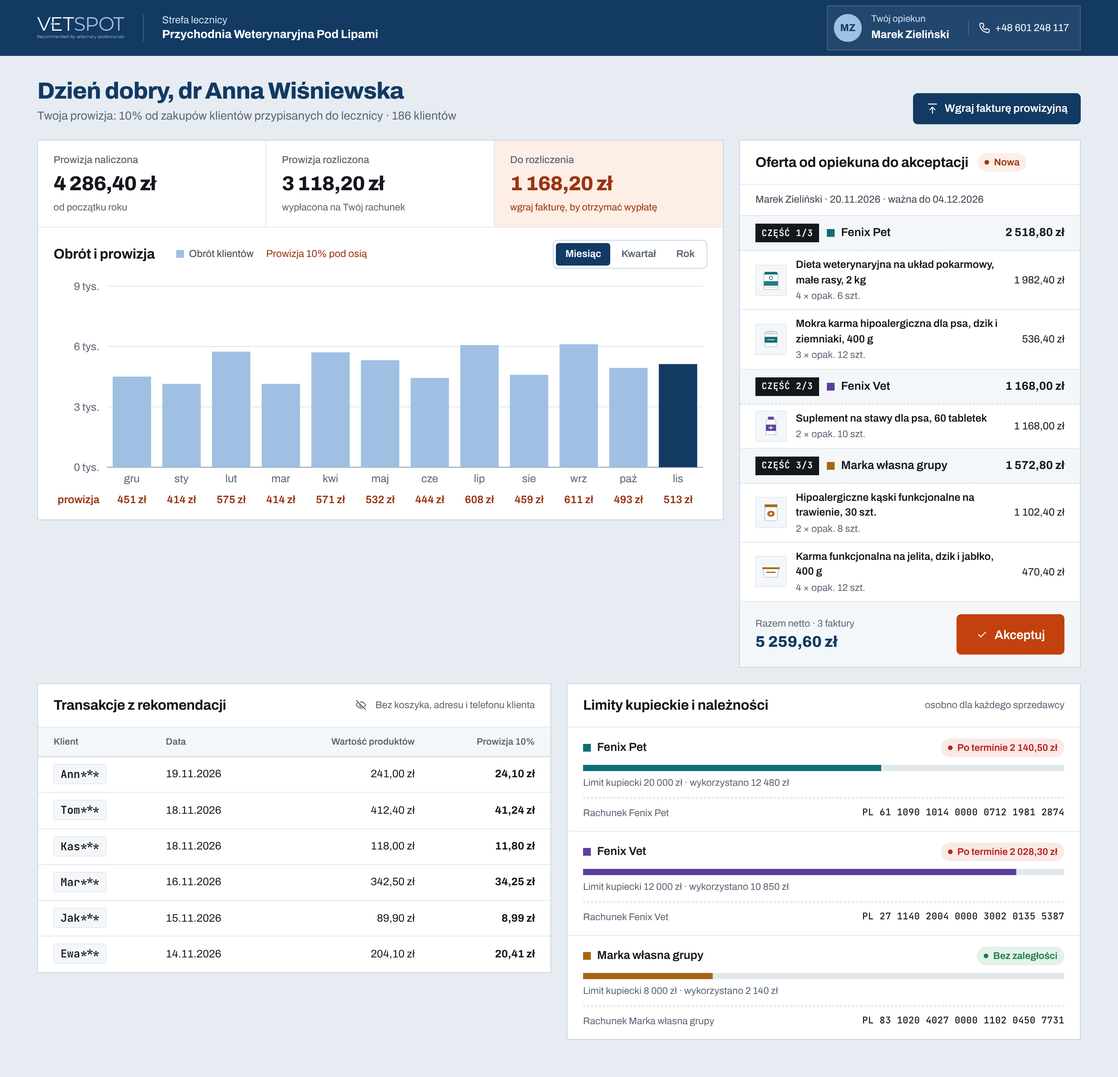
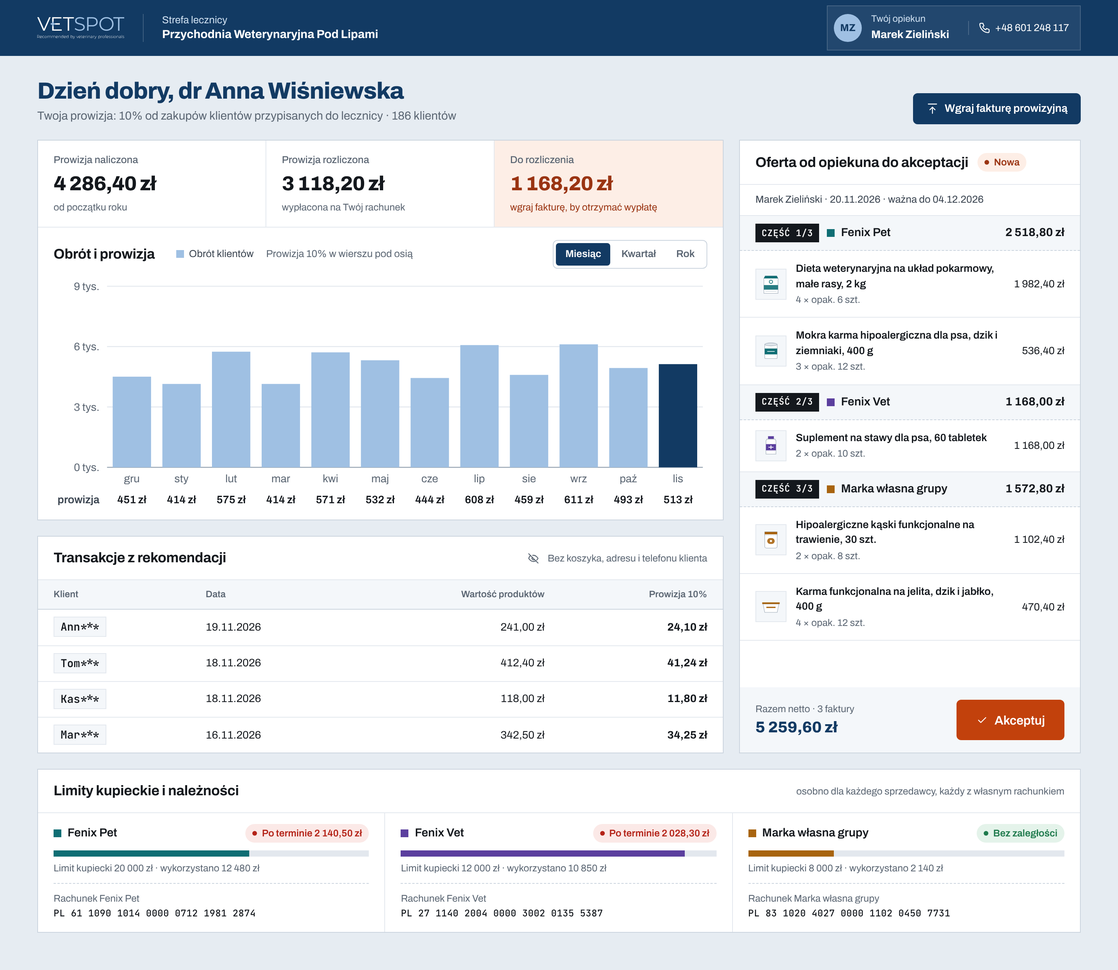
Strefa lecznicy: fix layout gap and signal colour on commission row
Claude-Session: https://claude.ai/code/session_015A23omK6EZnYviXLZmHn6a

diff --git a/makiety/07-strefa-lecznicy.html b/makiety/07-strefa-lecznicy.html
@@ -16,20 +16,23 @@
     .opk .ph{font-size:13px;color:#fff;margin-left:12px;display:flex;gap:6px;align-items:center;border-left:1px solid #ffffff30;padding-left:12px}
     .wrap{padding:28px 48px 48px}
     .top{display:flex;align-items:flex-end;margin-bottom:20px}
-    .grid{display:grid;grid-template-columns:1fr 440px;gap:20px;align-items:start;margin-bottom:20px}
+    .grid{display:grid;grid-template-columns:1fr 440px;gap:20px;align-items:stretch;margin-bottom:20px}
+    .grid > .col:last-child > .panel{flex:1;display:flex;flex-direction:column}.grid .oa{margin-top:auto}
+    .acc3{display:grid;grid-template-columns:repeat(3,1fr)}.acc3 .acc{border-bottom:0;border-right:1px solid var(--line-2)}.acc3 .acc:last-child{border-right:0}
+    .iban{flex-direction:column;gap:2px}
     .figs{display:grid;grid-template-columns:repeat(3,1fr);border-bottom:1px solid var(--line-2)}
     .figs .fig{padding:16px 20px;border-right:1px solid var(--line-2)}.figs .fig:last-child{border-right:0}
     .figs .fig.hl{background:var(--sig-wash)}
     .legend{display:flex;gap:16px;font-size:13px;color:var(--ink-2)}
     .legend span{display:flex;gap:6px;align-items:center}
     .og{display:flex;gap:10px;align-items:center;padding:10px 20px;background:var(--wash);border-bottom:1.5px dashed var(--line)}.og b{margin-left:auto}
-    .oi{display:grid;grid-template-columns:40px 1fr auto;gap:12px;align-items:center;padding:8px 20px;border-bottom:1px solid var(--line-2);font-size:13.5px}
+    .oi{display:grid;grid-template-columns:40px 1fr auto;gap:12px;align-items:center;padding:13px 20px;border-bottom:1px solid var(--line-2);font-size:13.5px}
     .oi .thumb.sm{width:40px;height:40px}.oi .thumb.sm svg{width:30px;height:30px}
     .oi b{font-weight:600}.oi .sub{display:flex;gap:6px;align-items:center;font-size:12.5px;color:var(--mute);margin-top:2px}
     .thumb.sm{width:52px;height:52px}.thumb.sm svg{width:40px;height:40px}
     .oa{display:flex;align-items:center;justify-content:space-between;padding:16px 20px;background:var(--wash)}
     .oa b{font-size:20px;font-weight:800;color:var(--navy)}
-    .bottom{display:grid;grid-template-columns:1fr 1fr;gap:20px;align-items:start}
+    .col{display:flex;flex-direction:column;gap:20px;min-width:0}
     .who{font-family:var(--mono);font-weight:600;background:var(--wash);padding:3px 8px;border:1px solid var(--line-2)}
     .priv{display:flex;gap:8px;align-items:center;font-size:12.5px;color:var(--mute)}
     .acc{padding:14px 20px;border-bottom:1px solid var(--line-2)}.acc:last-child{border-bottom:0}
@@ -48,27 +51,30 @@
   <div class="top"><div><h1>Dzień dobry, dr Anna Wiśniewska</h1><p class="mute" style="margin-top:4px">Twoja prowizja: 10% od zakupów klientów przypisanych do lecznicy · 186 klientów</p></div>
     <a class="btn navy" style="margin-left:auto" href="#"><svg class="ic s" viewBox="0 0 24 24" aria-hidden="true"><path d="M12 21V9"/><path d="m7 14 5-5 5 5"/><path d="M4 3h16"/></svg>Wgraj fakturę prowizyjną</a></div>
   <div class="grid">
+    <div class="col">
     <section class="panel">
       <div class="figs">
         <div class="fig"><small>Prowizja naliczona</small><b>4 286,40 zł</b><span class="mute" style="font-size:12.5px">od początku roku</span></div>
         <div class="fig"><small>Prowizja rozliczona</small><b>3 118,20 zł</b><span class="mute" style="font-size:12.5px">wypłacona na Twój rachunek</span></div>
         <div class="fig hl"><small>Do rozliczenia</small><b style="color:var(--sig-ink)">1 168,20 zł</b><span style="font-size:12.5px;color:var(--sig-ink)">wgraj fakturę, by otrzymać wypłatę</span></div>
       </div>
-      <div class="panel-h" style="border-bottom:0;padding-bottom:4px"><h2>Obrót i prowizja</h2><div class="legend" style="margin-left:16px"><span><i class="sw" style="background:#9fc0e3"></i>Obrót klientów</span><span style="color:#9a3412">Prowizja 10% pod osią</span></div>
+      <div class="panel-h" style="border-bottom:0;padding-bottom:4px"><h2>Obrót i prowizja</h2><div class="legend" style="margin-left:16px"><span><i class="sw" style="background:#9fc0e3"></i>Obrót klientów</span><span class="mute">Prowizja 10% w wierszu pod osią</span></div>
         <div class="r"><div class="seg"><span class="on">Miesiąc</span><span>Kwartał</span><span>Rok</span></div></div></div>
-      <div style="padding:4px 16px 12px"><svg viewBox="0 0 700 250" width="100%" style="display:block;font:11.5px Archivo;fill:#5b6673"><line x1="60" x2="692" y1="204.0" y2="204.0" stroke="#9aa7b4"/><text x="52" y="208.0" text-anchor="end">0 tys.</text><line x1="60" x2="692" y1="140.0" y2="140.0" stroke="#e3e8ee"/><text x="52" y="144.0" text-anchor="end">3 tys.</text><line x1="60" x2="692" y1="76.0" y2="76.0" stroke="#e3e8ee"/><text x="52" y="80.0" text-anchor="end">6 tys.</text><line x1="60" x2="692" y1="12.0" y2="12.0" stroke="#e3e8ee"/><text x="52" y="16.0" text-anchor="end">9 tys.</text><text x="52" y="242" text-anchor="end" fill="#9a3412" font-weight="600">prowizja</text><rect x="66.0" y="107.9" width="40.7" height="96.1" fill="#9fc0e3"/><text x="86.3" y="220" text-anchor="middle">gru</text><text x="86.3" y="242" text-anchor="middle" fill="#9a3412" font-weight="600">451 zł</text><rect x="118.7" y="115.6" width="40.7" height="88.4" fill="#9fc0e3"/><text x="139.0" y="220" text-anchor="middle">sty</text><text x="139.0" y="242" text-anchor="middle" fill="#9a3412" font-weight="600">414 zł</text><rect x="171.3" y="81.4" width="40.7" height="122.6" fill="#9fc0e3"/><text x="191.7" y="220" text-anchor="middle">lut</text><text x="191.7" y="242" text-anchor="middle" fill="#9a3412" font-weight="600">575 zł</text><rect x="224.0" y="115.6" width="40.7" height="88.4" fill="#9fc0e3"/><text x="244.3" y="220" text-anchor="middle">mar</text><text x="244.3" y="242" text-anchor="middle" fill="#9a3412" font-weight="600">414 zł</text><rect x="276.7" y="82.1" width="40.7" height="121.9" fill="#9fc0e3"/><text x="297.0" y="220" text-anchor="middle">kwi</text><text x="297.0" y="242" text-anchor="middle" fill="#9a3412" font-weight="600">571 zł</text><rect x="329.3" y="90.5" width="40.7" height="113.5" fill="#9fc0e3"/><text x="349.7" y="220" text-anchor="middle">maj</text><text x="349.7" y="242" text-anchor="middle" fill="#9a3412" font-weight="600">532 zł</text><rect x="382.0" y="109.3" width="40.7" height="94.7" fill="#9fc0e3"/><text x="402.3" y="220" text-anchor="middle">cze</text><text x="402.3" y="242" text-anchor="middle" fill="#9a3412" font-weight="600">444 zł</text><rect x="434.7" y="74.4" width="40.7" height="129.6" fill="#9fc0e3"/><text x="455.0" y="220" text-anchor="middle">lip</text><text x="455.0" y="242" text-anchor="middle" fill="#9a3412" font-weight="600">608 zł</text><rect x="487.3" y="106.0" width="40.7" height="98.0" fill="#9fc0e3"/><text x="507.7" y="220" text-anchor="middle">sie</text><text x="507.7" y="242" text-anchor="middle" fill="#9a3412" font-weight="600">459 zł</text><rect x="540.0" y="73.6" width="40.7" height="130.4" fill="#9fc0e3"/><text x="560.3" y="220" text-anchor="middle">wrz</text><text x="560.3" y="242" text-anchor="middle" fill="#9a3412" font-weight="600">611 zł</text><rect x="592.7" y="98.7" width="40.7" height="105.3" fill="#9fc0e3"/><text x="613.0" y="220" text-anchor="middle">paź</text><text x="613.0" y="242" text-anchor="middle" fill="#9a3412" font-weight="600">493 zł</text><rect x="645.3" y="94.6" width="40.7" height="109.4" fill="#123a63"/><text x="665.7" y="220" text-anchor="middle">lis</text><text x="665.7" y="242" text-anchor="middle" fill="#9a3412" font-weight="600">513 zł</text></svg></div>
+      <div style="padding:4px 16px 12px"><svg viewBox="0 0 700 250" width="100%" style="display:block;font:11.5px Archivo;fill:#5b6673"><line x1="60" x2="692" y1="204.0" y2="204.0" stroke="#9aa7b4"/><text x="52" y="208.0" text-anchor="end">0 tys.</text><line x1="60" x2="692" y1="140.0" y2="140.0" stroke="#e3e8ee"/><text x="52" y="144.0" text-anchor="end">3 tys.</text><line x1="60" x2="692" y1="76.0" y2="76.0" stroke="#e3e8ee"/><text x="52" y="80.0" text-anchor="end">6 tys.</text><line x1="60" x2="692" y1="12.0" y2="12.0" stroke="#e3e8ee"/><text x="52" y="16.0" text-anchor="end">9 tys.</text><text x="52" y="242" text-anchor="end" fill="#3a4450" font-weight="600">prowizja</text><rect x="66.0" y="107.9" width="40.7" height="96.1" fill="#9fc0e3"/><text x="86.3" y="220" text-anchor="middle">gru</text><text x="86.3" y="242" text-anchor="middle" fill="#14181d" font-weight="600">451 zł</text><rect x="118.7" y="115.6" width="40.7" height="88.4" fill="#9fc0e3"/><text x="139.0" y="220" text-anchor="middle">sty</text><text x="139.0" y="242" text-anchor="middle" fill="#14181d" font-weight="600">414 zł</text><rect x="171.3" y="81.4" width="40.7" height="122.6" fill="#9fc0e3"/><text x="191.7" y="220" text-anchor="middle">lut</text><text x="191.7" y="242" text-anchor="middle" fill="#14181d" font-weight="600">575 zł</text><rect x="224.0" y="115.6" width="40.7" height="88.4" fill="#9fc0e3"/><text x="244.3" y="220" text-anchor="middle">mar</text><text x="244.3" y="242" text-anchor="middle" fill="#14181d" font-weight="600">414 zł</text><rect x="276.7" y="82.1" width="40.7" height="121.9" fill="#9fc0e3"/><text x="297.0" y="220" text-anchor="middle">kwi</text><text x="297.0" y="242" text-anchor="middle" fill="#14181d" font-weight="600">571 zł</text><rect x="329.3" y="90.5" width="40.7" height="113.5" fill="#9fc0e3"/><text x="349.7" y="220" text-anchor="middle">maj</text><text x="349.7" y="242" text-anchor="middle" fill="#14181d" font-weight="600">532 zł</text><rect x="382.0" y="109.3" width="40.7" height="94.7" fill="#9fc0e3"/><text x="402.3" y="220" text-anchor="middle">cze</text><text x="402.3" y="242" text-anchor="middle" fill="#14181d" font-weight="600">444 zł</text><rect x="434.7" y="74.4" width="40.7" height="129.6" fill="#9fc0e3"/><text x="455.0" y="220" text-anchor="middle">lip</text><text x="455.0" y="242" text-anchor="middle" fill="#14181d" font-weight="600">608 zł</text><rect x="487.3" y="106.0" width="40.7" height="98.0" fill="#9fc0e3"/><text x="507.7" y="220" text-anchor="middle">sie</text><text x="507.7" y="242" text-anchor="middle" fill="#14181d" font-weight="600">459 zł</text><rect x="540.0" y="73.6" width="40.7" height="130.4" fill="#9fc0e3"/><text x="560.3" y="220" text-anchor="middle">wrz</text><text x="560.3" y="242" text-anchor="middle" fill="#14181d" font-weight="600">611 zł</text><rect x="592.7" y="98.7" width="40.7" height="105.3" fill="#9fc0e3"/><text x="613.0" y="220" text-anchor="middle">paź</text><text x="613.0" y="242" text-anchor="middle" fill="#14181d" font-weight="600">493 zł</text><rect x="645.3" y="94.6" width="40.7" height="109.4" fill="#123a63"/><text x="665.7" y="220" text-anchor="middle">lis</text><text x="665.7" y="242" text-anchor="middle" fill="#14181d" font-weight="600">513 zł</text></svg></div>
     </section>
+    <section class="panel"><div class="panel-h"><h2>Transakcje z rekomendacji</h2><span class="priv r"><svg class="ic s" viewBox="0 0 24 24" aria-hidden="true"><path d="M3 3l18 18"/><path d="M10.6 6.1A9.7 9.7 0 0 1 12 6c5.5 0 9 6 9 6a16 16 0 0 1-2.6 3.3"/><path d="M6.6 6.6C4.2 8.1 3 12 3 12s3.5 6 9 6a9 9 0 0 0 4.4-1.1"/><path d="M9.9 9.9a3 3 0 0 0 4.2 4.2"/></svg>Bez koszyka, adresu i telefonu klienta</span></div>
+      <table class="tbl"><thead><tr><th>Klient</th><th>Data</th><th class="r">Wartość produktów</th><th class="r">Prowizja 10%</th></tr></thead><tbody><tr><td><span class="who">Ann***</span></td><td>19.11.2026</td><td class="r">241,00 zł</td><td class="r strong">24,10 zł</td></tr><tr><td><span class="who">Tom***</span></td><td>18.11.2026</td><td class="r">412,40 zł</td><td class="r strong">41,24 zł</td></tr><tr><td><span class="who">Kas***</span></td><td>18.11.2026</td><td class="r">118,00 zł</td><td class="r strong">11,80 zł</td></tr><tr><td><span class="who">Mar***</span></td><td>16.11.2026</td><td class="r">342,50 zł</td><td class="r strong">34,25 zł</td></tr></tbody></table></section>
+    </div>
+    <div class="col">
     <section class="panel">
       <div class="panel-h"><h2>Oferta od opiekuna do akceptacji</h2><span class="pill sig">Nowa</span></div>
       <div style="padding:10px 20px;font-size:13px;color:var(--ink-2);border-bottom:1px solid var(--line-2)">Marek Zieliński · 20.11.2026 · ważna do 04.12.2026</div>
       <div class="og"><span class="tag">CZĘŚĆ 1/3</span><span class="seller"><i class="sw pet"></i>Fenix Pet</span><b class="num">2 518,80 zł</b></div><div class="oi"><div class="thumb sm"><svg viewBox="0 0 56 56" aria-hidden="true"><path d="M14 8h28l3 6v36H11V14z" fill="#fff" stroke="#9aa7b4"/><path d="M14 8h28l3 6H11z" fill="#0f6e74"/><rect x="11" y="30" width="34" height="11" fill="#0f6e74" opacity=".9"/><circle cx="28" cy="22" r="4" fill="none" stroke="#0f6e74" stroke-width="1.6"/><path d="M15 45h26" stroke="#c4ccd5"/></svg></div><div><b>Dieta weterynaryjna na układ pokarmowy, małe rasy, 2 kg</b><span class="sub">4 × opak. 6 szt.</span></div><span class="num">1 982,40 zł</span></div><div class="oi"><div class="thumb sm"><svg viewBox="0 0 56 56" aria-hidden="true"><rect x="13" y="12" width="30" height="34" rx="2" fill="#fff" stroke="#9aa7b4"/><ellipse cx="28" cy="12" rx="15" ry="3.5" fill="#dfe5eb" stroke="#9aa7b4"/><rect x="13" y="22" width="30" height="14" fill="#0f6e74"/><path d="M19 29h18" stroke="#fff" stroke-width="1.5"/></svg></div><div><b>Mokra karma hipoalergiczna dla psa, dzik i ziemniaki, 400 g</b><span class="sub">3 × opak. 12 szt.</span></div><span class="num">536,40 zł</span></div><div class="og"><span class="tag">CZĘŚĆ 2/3</span><span class="seller"><i class="sw vet"></i>Fenix Vet</span><b class="num">1 168,00 zł</b></div><div class="oi"><div class="thumb sm"><svg viewBox="0 0 56 56" aria-hidden="true"><rect x="21" y="5" width="14" height="7" fill="#5b3f9e"/><path d="M18 12h20l2 4v32H16V16z" fill="#fff" stroke="#9aa7b4"/><rect x="16" y="24" width="24" height="15" fill="#5b3f9e"/><path d="M22 31.5h12M28 27v9" stroke="#fff" stroke-width="2"/></svg></div><div><b>Suplement na stawy dla psa, 60 tabletek</b><span class="sub">2 × opak. 10 szt.</span></div><span class="num">1 168,00 zł</span></div><div class="og"><span class="tag">CZĘŚĆ 3/3</span><span class="seller"><i class="sw own"></i>Marka własna grupy</span><b class="num">1 572,80 zł</b></div><div class="oi"><div class="thumb sm"><svg viewBox="0 0 56 56" aria-hidden="true"><path d="M13 9h30v35c0 2-2 4-4 4H17c-2 0-4-2-4-4z" fill="#fff" stroke="#9aa7b4"/><path d="M13 9h30v6H13z" fill="#a8640f"/><path d="M13 17h30" stroke="#9aa7b4" stroke-dasharray="2 2"/><rect x="19" y="24" width="18" height="14" rx="7" fill="#a8640f" opacity=".9"/><circle cx="28" cy="31" r="2.5" fill="#fff"/></svg></div><div><b>Hipoalergiczne kąski funkcjonalne na trawienie, 30 szt.</b><span class="sub">2 × opak. 8 szt.</span></div><span class="num">1 102,40 zł</span></div><div class="oi"><div class="thumb sm"><svg viewBox="0 0 56 56" aria-hidden="true"><path d="M9 22h38l-4 20H13z" fill="#fff" stroke="#9aa7b4"/><path d="M7 18h42v4H7z" fill="#a8640f"/><path d="M17 30h22" stroke="#a8640f" stroke-width="3"/></svg></div><div><b>Karma funkcjonalna na jelita, dzik i jabłko, 400 g</b><span class="sub">4 × opak. 12 szt.</span></div><span class="num">470,40 zł</span></div>
       <div class="oa"><div><span class="mute" style="font-size:12.5px;display:block">Razem netto · 3 faktury</span><b class="num">5 259,60 zł</b></div><a class="btn primary lg" href="#"><svg class="ic s" viewBox="0 0 24 24" aria-hidden="true"><path d="m5 12.5 4.5 4.5L19 7.5"/></svg>Akceptuj</a></div>
     </section>
+    </div>
   </div>
-  <div class="bottom">
-    <section class="panel"><div class="panel-h"><h2>Transakcje z rekomendacji</h2><span class="priv r"><svg class="ic s" viewBox="0 0 24 24" aria-hidden="true"><path d="M3 3l18 18"/><path d="M10.6 6.1A9.7 9.7 0 0 1 12 6c5.5 0 9 6 9 6a16 16 0 0 1-2.6 3.3"/><path d="M6.6 6.6C4.2 8.1 3 12 3 12s3.5 6 9 6a9 9 0 0 0 4.4-1.1"/><path d="M9.9 9.9a3 3 0 0 0 4.2 4.2"/></svg>Bez koszyka, adresu i telefonu klienta</span></div>
-      <table class="tbl"><thead><tr><th>Klient</th><th>Data</th><th class="r">Wartość produktów</th><th class="r">Prowizja 10%</th></tr></thead><tbody><tr><td><span class="who">Ann***</span></td><td>19.11.2026</td><td class="r">241,00 zł</td><td class="r strong">24,10 zł</td></tr><tr><td><span class="who">Tom***</span></td><td>18.11.2026</td><td class="r">412,40 zł</td><td class="r strong">41,24 zł</td></tr><tr><td><span class="who">Kas***</span></td><td>18.11.2026</td><td class="r">118,00 zł</td><td class="r strong">11,80 zł</td></tr><tr><td><span class="who">Mar***</span></td><td>16.11.2026</td><td class="r">342,50 zł</td><td class="r strong">34,25 zł</td></tr><tr><td><span class="who">Jak***</span></td><td>15.11.2026</td><td class="r">89,90 zł</td><td class="r strong">8,99 zł</td></tr><tr><td><span class="who">Ewa***</span></td><td>14.11.2026</td><td class="r">204,10 zł</td><td class="r strong">20,41 zł</td></tr></tbody></table></section>
-    <section class="panel"><div class="panel-h"><h2>Limity kupieckie i należności</h2><span class="mute" style="font-size:12.5px;margin-left:auto">osobno dla każdego sprzedawcy</span></div><div class="acc"><div class="acc-t"><span class="seller"><i class="sw pet"></i>Fenix Pet</span><span class="pill bad">Po terminie 2 140,50 zł</span></div>
+  <section class="panel lims"><div class="panel-h"><h2>Limity kupieckie i należności</h2><span class="mute" style="font-size:12.5px;margin-left:auto">osobno dla każdego sprzedawcy, każdy z własnym rachunkiem</span></div><div class="acc3"><div class="acc"><div class="acc-t"><span class="seller"><i class="sw pet"></i>Fenix Pet</span><span class="pill bad">Po terminie 2 140,50 zł</span></div>
           <div class="meter"><i style="width:62%;background:var(--s-pet)"></i></div>
           <div class="acc-f"><span>Limit kupiecki 20 000 zł · wykorzystano 12 480 zł</span></div>
           <div class="iban"><span class="mute">Rachunek Fenix Pet</span><span class="mono">PL 61 1090 1014 0000 0712 1981 2874</span></div></div><div class="acc"><div class="acc-t"><span class="seller"><i class="sw vet"></i>Fenix Vet</span><span class="pill bad">Po terminie 2 028,30 zł</span></div>
@@ -77,8 +83,7 @@
           <div class="iban"><span class="mute">Rachunek Fenix Vet</span><span class="mono">PL 27 1140 2004 0000 3002 0135 5387</span></div></div><div class="acc"><div class="acc-t"><span class="seller"><i class="sw own"></i>Marka własna grupy</span><span class="pill ok">Bez zaległości</span></div>
           <div class="meter"><i style="width:27%;background:var(--s-own)"></i></div>
           <div class="acc-f"><span>Limit kupiecki 8 000 zł · wykorzystano 2 140 zł</span></div>
-          <div class="iban"><span class="mute">Rachunek Marka własna grupy</span><span class="mono">PL 83 1020 4027 0000 1102 0450 7731</span></div></div></section>
-  </div>
+          <div class="iban"><span class="mute">Rachunek Marka własna grupy</span><span class="mono">PL 83 1020 4027 0000 1102 0450 7731</span></div></div></div></section>
 </div>
 </body>
 </html>

diff --git a/makiety/src/build.py b/makiety/src/build.py
@@ -598,18 +598,18 @@ def strefa():
     for v in range(0, 9001, 3000):
         y = T + ph - v / vmax * ph
         g += f'<line x1="{L}" x2="{L+pw}" y1="{y:.1f}" y2="{y:.1f}" stroke="{"#9aa7b4" if v == 0 else "#e3e8ee"}"/><text x="{L-8}" y="{y+4:.1f}" text-anchor="end">{v//1000} tys.</text>'
-    g += f'<text x="{L-8}" y="{H-8}" text-anchor="end" fill="#9a3412" font-weight="600">prowizja</text>'
+    g += f'<text x="{L-8}" y="{H-8}" text-anchor="end" fill="#3a4450" font-weight="600">prowizja</text>'
     for i, v in enumerate(turn):
         x = L + i * bw + 6
         h = v / vmax * ph
         cx = x + (bw - 12) / 2
         g += f'<rect x="{x:.1f}" y="{T+ph-h:.1f}" width="{bw-12:.1f}" height="{h:.1f}" fill="{"#123a63" if i == 11 else "#9fc0e3"}"/>'
         g += f'<text x="{cx:.1f}" y="{T+ph+16}" text-anchor="middle">{months[i]}</text>'
-        g += f'<text x="{cx:.1f}" y="{H-8}" text-anchor="middle" fill="#9a3412" font-weight="600">{round(v*0.1)} zł</text>'
+        g += f'<text x="{cx:.1f}" y="{H-8}" text-anchor="middle" fill="#14181d" font-weight="600">{round(v*0.1)} zł</text>'
     chart = f'<svg viewBox="0 0 {W} {H}" width="100%" style="display:block;font:11.5px Archivo;fill:#5b6673">{g}</svg>'
 
     tx = [("Ann***", "19.11.2026", 241.00), ("Tom***", "18.11.2026", 412.40), ("Kas***", "18.11.2026", 118.00),
-          ("Mar***", "16.11.2026", 342.50), ("Jak***", "15.11.2026", 89.90), ("Ewa***", "14.11.2026", 204.10)]
+          ("Mar***", "16.11.2026", 342.50)]
     txr = "".join(f'<tr><td><span class="who">{c}</span></td><td>{d}</td><td class="r">{zl(v)}</td><td class="r strong">{zl(v*0.1)}</td></tr>' for c, d, v in tx)
 
     accts = [("pet", 20000, 12480, 2140.50, "PL 61 1090 1014 0000 0712 1981 2874"),
@@ -644,20 +644,23 @@ def strefa():
     .opk .ph{font-size:13px;color:#fff;margin-left:12px;display:flex;gap:6px;align-items:center;border-left:1px solid #ffffff30;padding-left:12px}
     .wrap{padding:28px 48px 48px}
     .top{display:flex;align-items:flex-end;margin-bottom:20px}
-    .grid{display:grid;grid-template-columns:1fr 440px;gap:20px;align-items:start;margin-bottom:20px}
+    .grid{display:grid;grid-template-columns:1fr 440px;gap:20px;align-items:stretch;margin-bottom:20px}
+    .grid > .col:last-child > .panel{flex:1;display:flex;flex-direction:column}.grid .oa{margin-top:auto}
+    .acc3{display:grid;grid-template-columns:repeat(3,1fr)}.acc3 .acc{border-bottom:0;border-right:1px solid var(--line-2)}.acc3 .acc:last-child{border-right:0}
+    .iban{flex-direction:column;gap:2px}
     .figs{display:grid;grid-template-columns:repeat(3,1fr);border-bottom:1px solid var(--line-2)}
     .figs .fig{padding:16px 20px;border-right:1px solid var(--line-2)}.figs .fig:last-child{border-right:0}
     .figs .fig.hl{background:var(--sig-wash)}
     .legend{display:flex;gap:16px;font-size:13px;color:var(--ink-2)}
     .legend span{display:flex;gap:6px;align-items:center}
     .og{display:flex;gap:10px;align-items:center;padding:10px 20px;background:var(--wash);border-bottom:1.5px dashed var(--line)}.og b{margin-left:auto}
-    .oi{display:grid;grid-template-columns:40px 1fr auto;gap:12px;align-items:center;padding:8px 20px;border-bottom:1px solid var(--line-2);font-size:13.5px}
+    .oi{display:grid;grid-template-columns:40px 1fr auto;gap:12px;align-items:center;padding:13px 20px;border-bottom:1px solid var(--line-2);font-size:13.5px}
     .oi .thumb.sm{width:40px;height:40px}.oi .thumb.sm svg{width:30px;height:30px}
     .oi b{font-weight:600}.oi .sub{display:flex;gap:6px;align-items:center;font-size:12.5px;color:var(--mute);margin-top:2px}
     .thumb.sm{width:52px;height:52px}.thumb.sm svg{width:40px;height:40px}
     .oa{display:flex;align-items:center;justify-content:space-between;padding:16px 20px;background:var(--wash)}
     .oa b{font-size:20px;font-weight:800;color:var(--navy)}
-    .bottom{display:grid;grid-template-columns:1fr 1fr;gap:20px;align-items:start}
+    .col{display:flex;flex-direction:column;gap:20px;min-width:0}
     .who{font-family:var(--mono);font-weight:600;background:var(--wash);padding:3px 8px;border:1px solid var(--line-2)}
     .priv{display:flex;gap:8px;align-items:center;font-size:12.5px;color:var(--mute)}
     .acc{padding:14px 20px;border-bottom:1px solid var(--line-2)}.acc:last-child{border-bottom:0}
@@ -674,28 +677,30 @@ def strefa():
   <div class="top"><div><h1>Dzień dobry, dr Anna Wiśniewska</h1><p class="mute" style="margin-top:4px">Twoja prowizja: 10% od zakupów klientów przypisanych do lecznicy · 186 klientów</p></div>
     <a class="btn navy" style="margin-left:auto" href="#">{ic("upload","s")}Wgraj fakturę prowizyjną</a></div>
   <div class="grid">
+    <div class="col">
     <section class="panel">
       <div class="figs">
         <div class="fig"><small>Prowizja naliczona</small><b>{zl(4286.40)}</b><span class="mute" style="font-size:12.5px">od początku roku</span></div>
         <div class="fig"><small>Prowizja rozliczona</small><b>{zl(3118.20)}</b><span class="mute" style="font-size:12.5px">wypłacona na Twój rachunek</span></div>
         <div class="fig hl"><small>Do rozliczenia</small><b style="color:var(--sig-ink)">{zl(1168.20)}</b><span style="font-size:12.5px;color:var(--sig-ink)">wgraj fakturę, by otrzymać wypłatę</span></div>
       </div>
-      <div class="panel-h" style="border-bottom:0;padding-bottom:4px"><h2>Obrót i prowizja</h2><div class="legend" style="margin-left:16px"><span><i class="sw" style="background:#9fc0e3"></i>Obrót klientów</span><span style="color:#9a3412">Prowizja 10% pod osią</span></div>
+      <div class="panel-h" style="border-bottom:0;padding-bottom:4px"><h2>Obrót i prowizja</h2><div class="legend" style="margin-left:16px"><span><i class="sw" style="background:#9fc0e3"></i>Obrót klientów</span><span class="mute">Prowizja 10% w wierszu pod osią</span></div>
         <div class="r"><div class="seg"><span class="on">Miesiąc</span><span>Kwartał</span><span>Rok</span></div></div></div>
       <div style="padding:4px 16px 12px">{chart}</div>
     </section>
+    <section class="panel"><div class="panel-h"><h2>Transakcje z rekomendacji</h2><span class="priv r">{ic("eyeoff","s")}Bez koszyka, adresu i telefonu klienta</span></div>
+      <table class="tbl"><thead><tr><th>Klient</th><th>Data</th><th class="r">Wartość produktów</th><th class="r">Prowizja 10%</th></tr></thead><tbody>{txr}</tbody></table></section>
+    </div>
+    <div class="col">
     <section class="panel">
       <div class="panel-h"><h2>Oferta od opiekuna do akceptacji</h2><span class="pill sig">Nowa</span></div>
       <div style="padding:10px 20px;font-size:13px;color:var(--ink-2);border-bottom:1px solid var(--line-2)">Marek Zieliński · 20.11.2026 · ważna do 04.12.2026</div>
       {oi}
       <div class="oa"><div><span class="mute" style="font-size:12.5px;display:block">Razem netto · 3 faktury</span><b class="num">{zl(5259.60)}</b></div><a class="btn primary lg" href="#">{ic("check","s")}Akceptuj</a></div>
     </section>
+    </div>
   </div>
-  <div class="bottom">
-    <section class="panel"><div class="panel-h"><h2>Transakcje z rekomendacji</h2><span class="priv r">{ic("eyeoff","s")}Bez koszyka, adresu i telefonu klienta</span></div>
-      <table class="tbl"><thead><tr><th>Klient</th><th>Data</th><th class="r">Wartość produktów</th><th class="r">Prowizja 10%</th></tr></thead><tbody>{txr}</tbody></table></section>
-    <section class="panel"><div class="panel-h"><h2>Limity kupieckie i należności</h2><span class="mute" style="font-size:12.5px;margin-left:auto">osobno dla każdego sprzedawcy</span></div>{acc}</section>
-  </div>
+  <section class="panel lims"><div class="panel-h"><h2>Limity kupieckie i należności</h2><span class="mute" style="font-size:12.5px;margin-left:auto">osobno dla każdego sprzedawcy, każdy z własnym rachunkiem</span></div><div class="acc3">{acc}</div></section>
 </div>'''
     return page("Strefa lecznicy", body, css)
 
